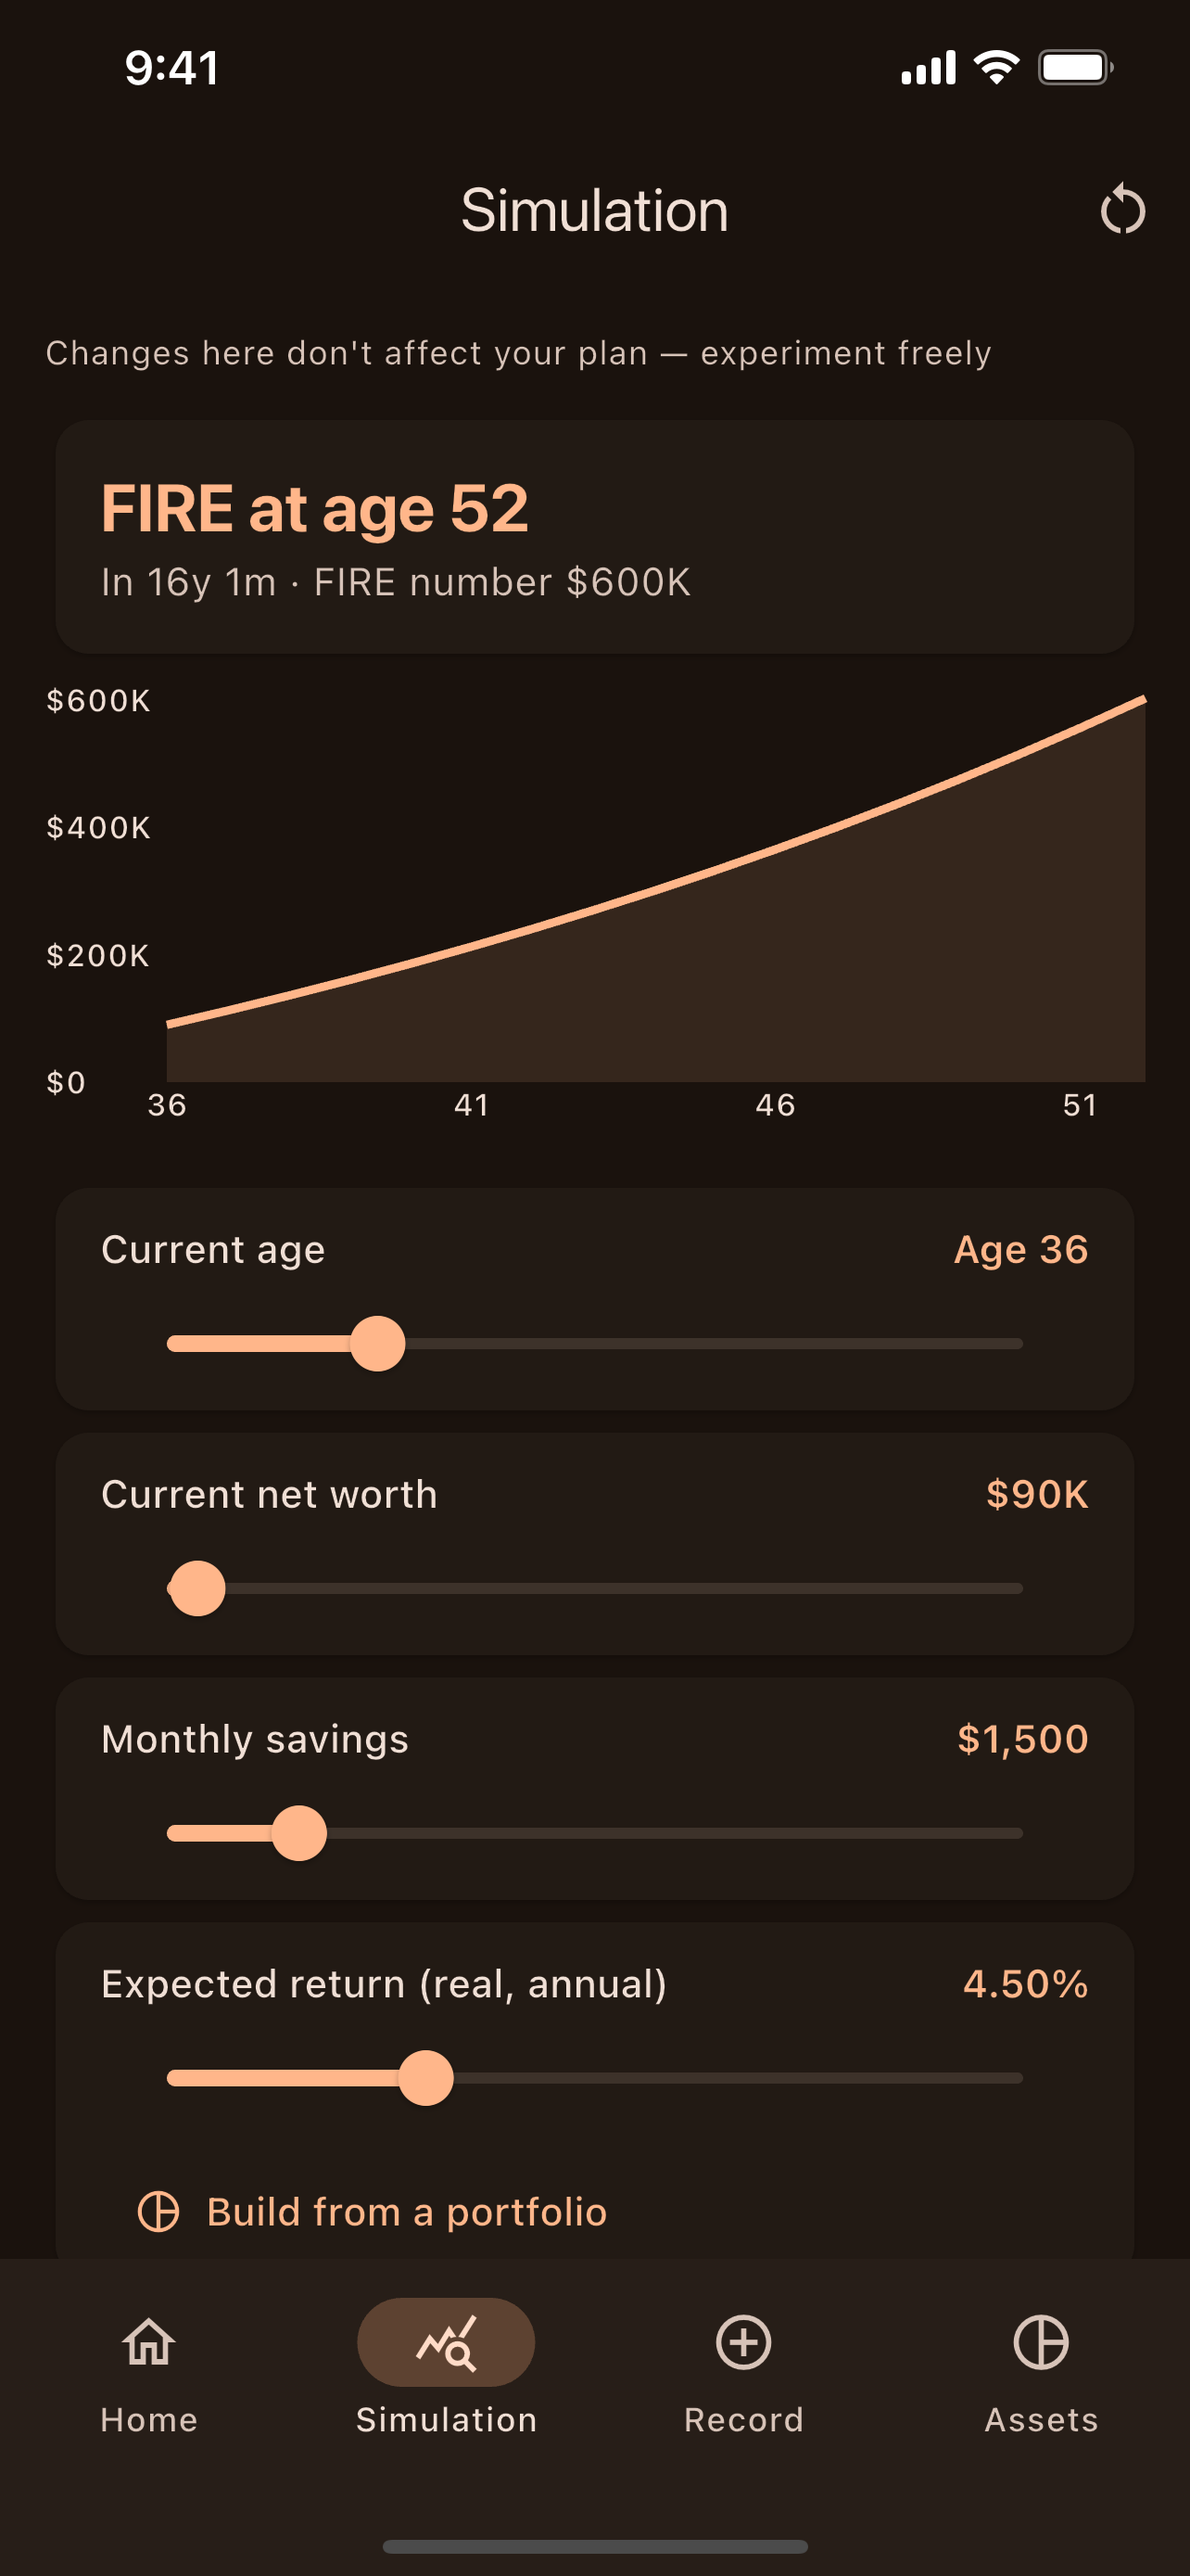
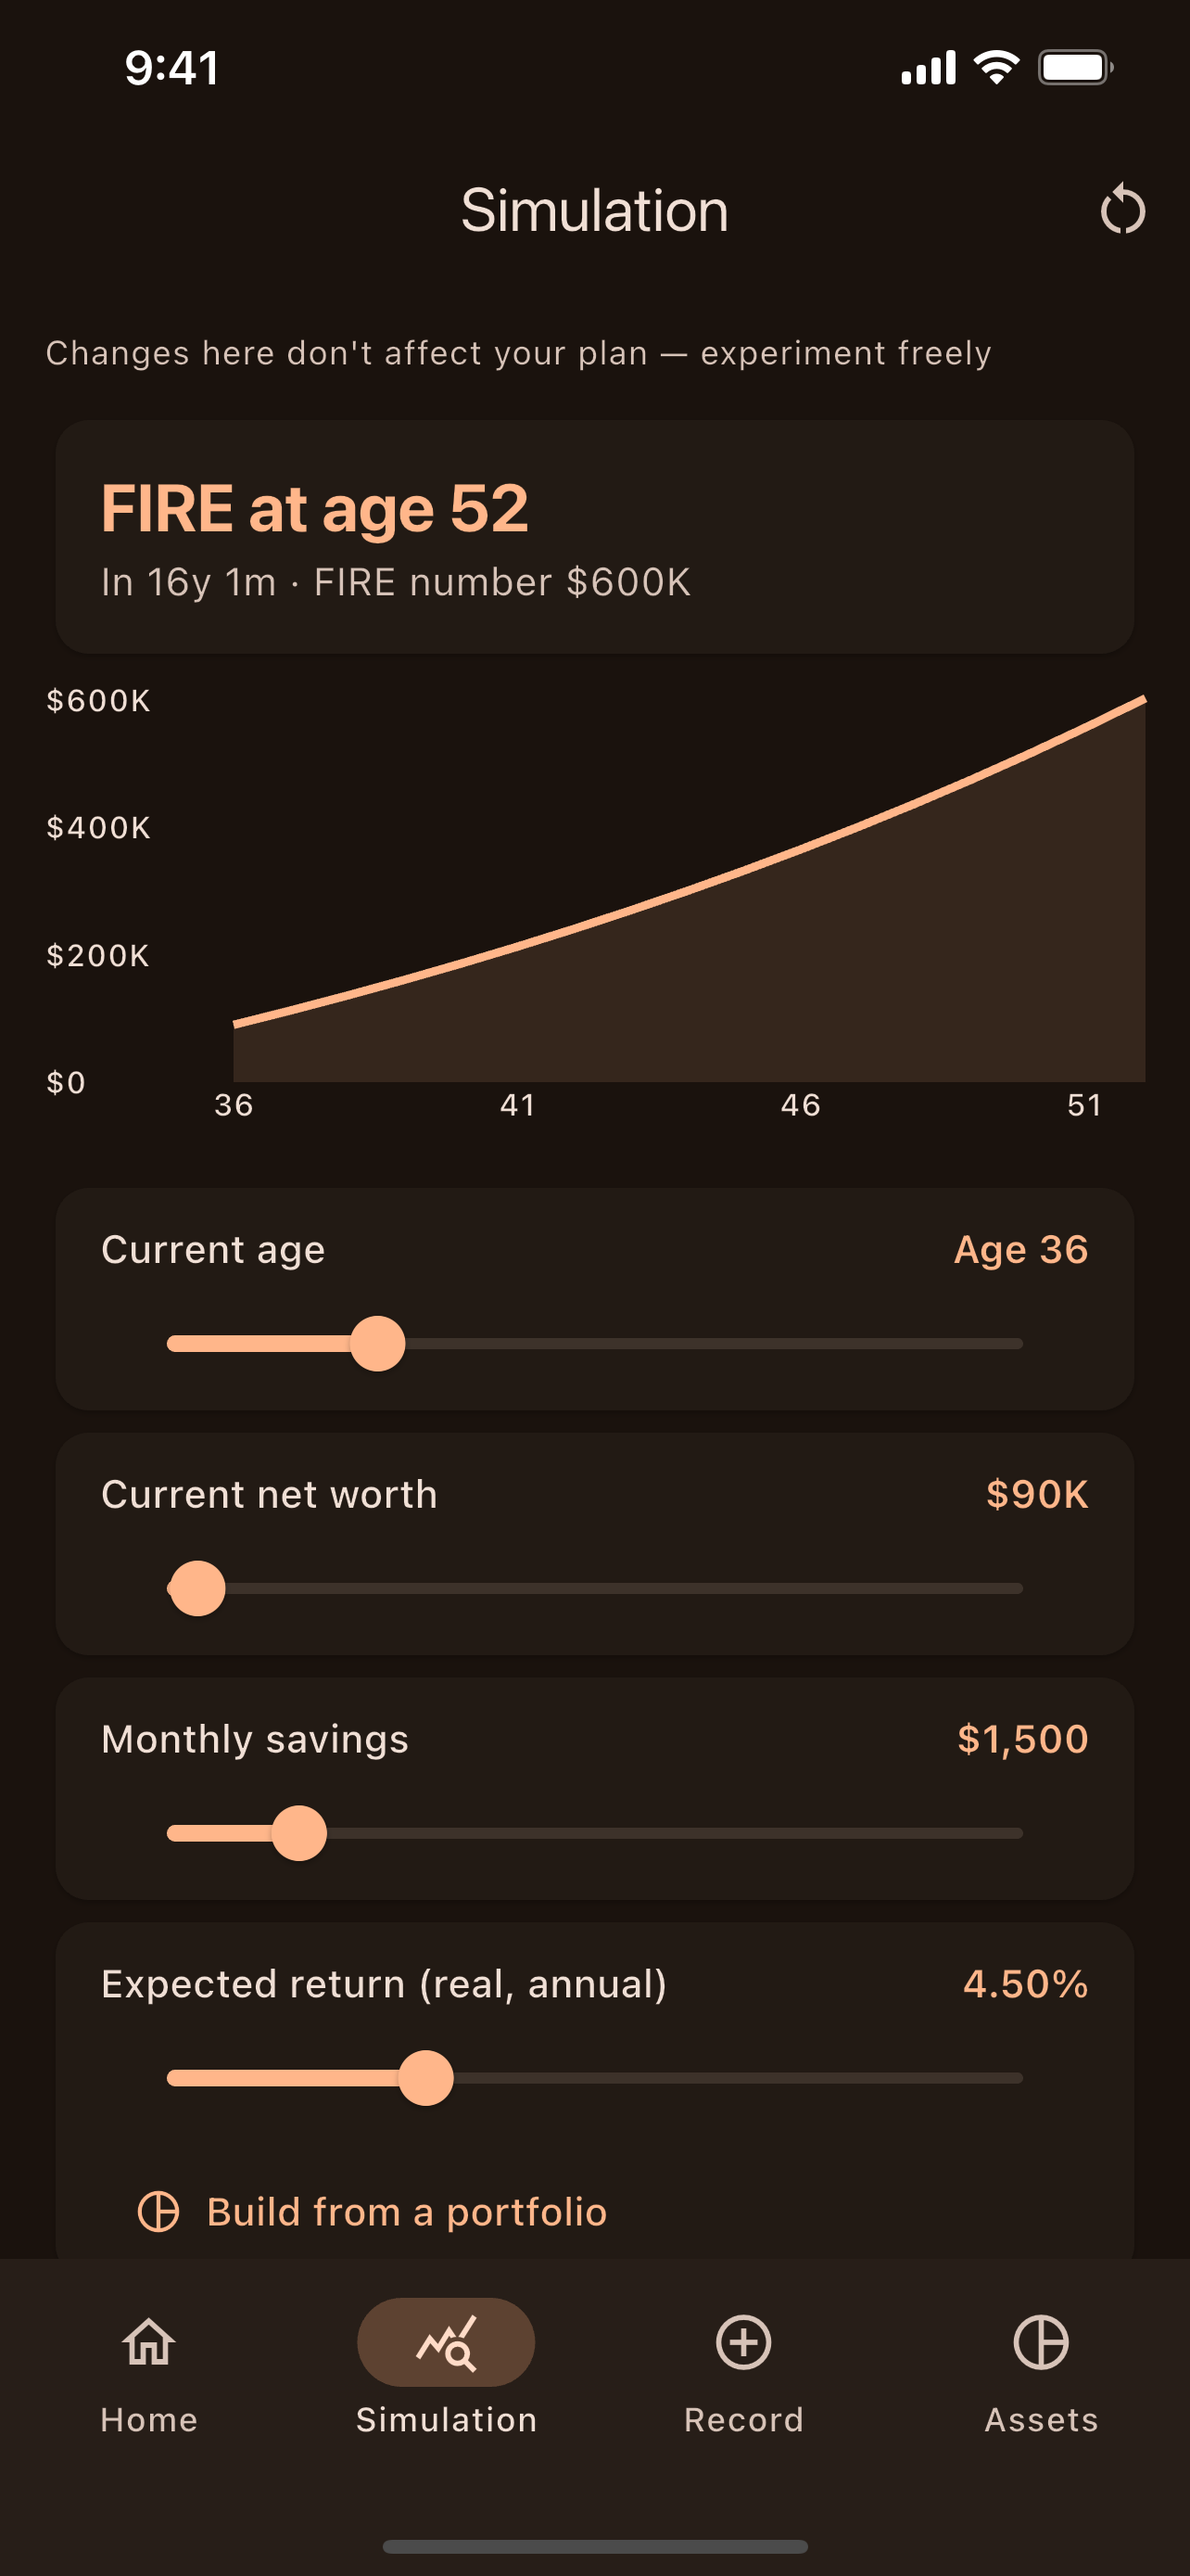
feat: 차트 축 라벨 폭·단위어 정리 + 스크린샷 업로드 도구, v1.0.0 배포
차트 축
- CJK는 축 눈금에서 통화 단위어를 뺀다 ("6억", "6,000万", "$600K").
  축 전체가 같은 단위라 눈금마다 반복할 필요가 없고, 일본어 "6,000万円"은 접혔다
- 축 라벨 칸 너비 44 → 68 공용 상수로. 일본어가 44로는 두 줄이 됐다

도구
- tool/upload_screenshots.py — 촬영본을 양대 스토어에 업로드.
  Play 이미지 엔드포인트는 edits/{id}/listings/{lang}/{type}다 (images/는 404)
- tool/seed_demo_db.py — 시뮬레이터 앱 DB에 시연 데이터 직접 삽입
- 촬영 테스트가 기본 자산 항목 이름도 현재 언어로 넣는다 (영어 화면에 한글이 남았다)

배포 (2026-10-02)
- Play 프로덕션 출시 완료 (버전코드 10, ko·en·ja 등록정보·출시노트·스크린샷)
- App Store 심사 제출 (1.0.0, 승인 즉시 자동 출시, 언어별 iPhone+iPad 스크린샷)
- 판매 지역 확장은 양대 스토어 모두 API 미지원 — 콘솔에서 사람이 한다

diff --git a/integration_test/screenshots_test.dart b/integration_test/screenshots_test.dart
@@ -5,6 +5,7 @@ import 'package:firedom/data/repositories/settings_store.dart';
 import 'package:firedom/data/repositories/snapshot_repository.dart';
 import 'package:firedom/engine/engine.dart';
 import 'package:firedom/features/simulation/monte_carlo_runner.dart';
+import 'package:firedom/l10n/l10n.dart';
 import 'package:flutter/material.dart';
 import 'package:flutter_test/flutter_test.dart';
 import 'package:integration_test/integration_test.dart';
@@ -55,7 +56,17 @@ Future<void> _seed(AppDatabase db) async {
 
   // 최근 6개월 기록 — 궤도 차트와 저축률 추이가 보이도록 조금씩 증가
   final repo = SnapshotRepository(db);
-  final accounts = await repo.ensureDefaultAccounts();
+  // 기본 항목 이름도 현재 언어로 — 실제 앱이 기록 화면에서 넘기는 것과 같은 l10n 문구다.
+  // 그냥 ensureDefaultAccounts()를 부르면 한국어 기본 시드가 들어가 영어 화면에 한글이 남는다.
+  final l10n = lookupAppLocalizations(Locale(_locale));
+  final accounts = await repo.ensureDefaultAccounts(names: [
+    l10n.snapDefaultDeposits,
+    l10n.snapDefaultStocks,
+    l10n.snapDefaultPension,
+    l10n.snapDefaultRealEstate,
+    l10n.snapDefaultLoans,
+    l10n.snapDefaultOther,
+  ]);
   for (var i = 6; i >= 0; i--) {
     final ym = ymAddMonths(nowYm(), -i);
     final grow = (6 - i);

diff --git a/lib/features/simulation/chart_axis.dart b/lib/features/simulation/chart_axis.dart
@@ -10,7 +10,12 @@ int chartAmountUnit(Currency currency) => switch (currency) {
       Currency.usd => 10000000,
     };
 
-/// y축 눈금 라벨 — 축 값 × 단위를 통화·언어에 맞춰 축약 ("1억원" / "$100K" / "1億円")
+/// y축 라벨 칸 너비. 일본어 "6,000万"처럼 긴 라벨이 두 줄로 접히지 않을 만큼 둔다
+/// (44로는 접혔다). 차트 폭은 그만큼 줄지만 라벨이 깨지는 것보다 낫다.
+const chartAxisLabelWidth = 68.0;
+
+/// y축 눈금 라벨 — 축 값 × 단위를 통화·언어에 맞춰 축약 ("1억" / "$100K" / "1億")
+/// CJK는 단위어를 빼 한 줄에 들어가게 한다 ([MoneyFormat.axis]).
 /// 가림 모드에서는 빈 문자열 (축 눈금 자체를 숨긴다)
 String chartAmountLabel(MoneyFormat money, double axisValue, int unit) =>
-    money.masked ? '' : money.compact((axisValue * unit).round());
+    money.masked ? '' : money.axis((axisValue * unit).round());

diff --git a/test/core/currency_test.dart b/test/core/currency_test.dart
@@ -107,4 +107,21 @@ void main() {
       expect(formatYm(202612, languageCode: 'ja'), '2026年12月');
     });
   });
+
+  group('MoneyFormat.axis — 차트 축 라벨', () {
+    test('CJK는 단위어를 뺀다 (좁은 축에서 두 줄로 접히지 않게)', () {
+      expect(const MoneyFormat(Currency.krw, 'ko').axis(600000000), '6억');
+      expect(const MoneyFormat(Currency.jpy, 'ja').axis(60000000), '6,000万');
+      expect(const MoneyFormat(Currency.krw, 'ko').axis(0), '0');
+    });
+
+    test('영어는 기호가 접두라 compact 그대로', () {
+      expect(const MoneyFormat(Currency.usd, 'en').axis(60000000), r'$600K');
+    });
+
+    test('가림 모드', () {
+      expect(const MoneyFormat(Currency.krw, 'ko', masked: true).axis(600000000),
+          '●●●');
+    });
+  });
 }

diff --git a/lib/core/money_format.dart b/lib/core/money_format.dart
@@ -139,6 +139,17 @@ class MoneyFormat {
     // "$1.0M" → "$1M"
     return '$sign${text.replaceAll(RegExp(r'\.0(?=[KMBT]$)'), '')}';
   }
+
+  /// 차트 축 눈금용 축약 — CJK는 통화 단위어를 뺀다 ("6억", "6,000万", r"$600K").
+  ///
+  /// 축은 폭이 좁아 "6,000万円"처럼 길어지면 라벨이 두 줄로 접힌다. 단위는 축 전체에서
+  /// 같으니 눈금마다 반복할 필요가 없다. 영어는 기호가 접두라 그대로 둔다.
+  String axis(int minor) {
+    if (masked) return maskedText;
+    final text = compact(minor);
+    if (!_cjk || !text.endsWith(unitWord)) return text;
+    return text.substring(0, text.length - unitWord.length);
+  }
 }
 
 /// 숫자 입력에 천 단위 콤마를 실시간 적용 (PRD S1)

diff --git a/lib/features/onboarding/onboarding_result_screen.dart b/lib/features/onboarding/onboarding_result_screen.dart
@@ -11,6 +11,7 @@ import '../../l10n/l10n.dart';
 import '../common/money.dart';
 import '../home/home_screen.dart';
 import 'onboarding_draft.dart';
+import '../simulation/chart_axis.dart';
 
 /// S2. 온보딩 — 결과 (PRD) ★ aha moment
 ///
@@ -348,7 +349,7 @@ class _TrajectoryChart extends ConsumerWidget {
             leftTitles: AxisTitles(
               sideTitles: SideTitles(
                 showTitles: true,
-                reservedSize: 44,
+                reservedSize: chartAxisLabelWidth,
                 getTitlesWidget: (value, meta) {
                   // 끝점 라벨은 마지막 눈금과 겹치므로 생략 (fl_chart가 max에 별도로 그림)
                   if (value == meta.max) return const SizedBox.shrink();

diff --git a/lib/features/home/home_screen.dart b/lib/features/home/home_screen.dart
@@ -470,7 +470,7 @@ class _TrajectoryCard extends StatelessWidget {
               sideTitles: SideTitles(
                 // 가림 모드에서는 금액 축도 숨긴다
                 showTitles: !masked,
-                reservedSize: 44,
+                reservedSize: chartAxisLabelWidth,
                 getTitlesWidget: (value, meta) {
                   // 끝점 라벨은 마지막 눈금과 겹치므로 생략 (fl_chart가 max에 별도로 그림)
                   if (value == meta.max) return const SizedBox.shrink();

diff --git a/lib/features/simulation/simulation_screen.dart b/lib/features/simulation/simulation_screen.dart
@@ -689,7 +689,7 @@ class _SimChart extends ConsumerWidget {
             leftTitles: AxisTitles(
               sideTitles: SideTitles(
                 showTitles: true,
-                reservedSize: 44,
+                reservedSize: chartAxisLabelWidth,
                 getTitlesWidget: (value, meta) {
                   // 끝점 라벨은 마지막 눈금과 겹치므로 생략 (fl_chart가 max에 별도로 그림)
                   if (value == meta.max) return const SizedBox.shrink();

diff --git a/lib/features/simulation/scenario_compare_screen.dart b/lib/features/simulation/scenario_compare_screen.dart
@@ -323,7 +323,7 @@ class _CompareChart extends StatelessWidget {
           leftTitles: AxisTitles(
             sideTitles: SideTitles(
               showTitles: true,
-              reservedSize: 44,
+              reservedSize: chartAxisLabelWidth,
               getTitlesWidget: (value, meta) {
                 // 끝점 라벨은 마지막 눈금과 겹치므로 생략 (fl_chart가 max에 별도로 그림)
                 if (value == meta.max) return const SizedBox.shrink();

diff --git a/tool/upload_screenshots.py b/tool/upload_screenshots.py
@@ -116,11 +116,12 @@ def push_play(prefix, locale, paths):
     lang = PLAY_LOCALE[locale]
     edit = P.call('POST', 'edits')['id']
     try:
-        P.call('DELETE', f'edits/{edit}/images/{lang}/{image_type}')
+        # 이미지 엔드포인트는 edits/{id}/listings/{lang}/{type} 아래다 (images/ 아님 — 404)
+        P.call('DELETE', f'edits/{edit}/listings/{lang}/{image_type}')
         for path in paths:
             blob = open(path, 'rb').read()
             url = ('https://androidpublisher.googleapis.com/upload/androidpublisher/v3/'
-                   f'applications/{P.PKG}/edits/{edit}/images/{lang}/{image_type}'
+                   f'applications/{P.PKG}/edits/{edit}/listings/{lang}/{image_type}'
                    '?uploadType=media')
             _raw('POST', url, {'Authorization': f'Bearer {P.token()}',
                                'Content-Type': 'image/png',

diff --git a/CLAUDE.md b/CLAUDE.md
@@ -145,11 +145,12 @@ App Store 지침 **3.1.2(c)**: 구독을 파는 앱은 이용약관(EULA)과 개
 
 ## 릴리스 상태 (2026-09-23 기준)
 
-- **v1.0 양대 스토어 게시 완료.** App Store는 빌드 8(0.1.0+8, 3.1.2(c) 대응 빌드),
-  Google Play 프로덕션은 버전 6(0.1.0). 빌드 9(0.1.0+9)는 Play **내부 테스트 트랙**에만
-  올라가 있다(설정 화면 고객 ID 타일). 현재 `pubspec.yaml`은 **`1.0.0+10`** — 다국어·다통화
-  빌드. **2026-10-01 TestFlight 내부 테스트(알파테스터 그룹, 자동 배포)에 업로드**했고 심사
-  제출은 아직이다. 설정 화면 앱 버전은 `package_info_plus`로 읽는다
+- **v1.0.0 다국어·다통화 배포 (2026-10-02).** `pubspec.yaml`은 `1.0.0+10`.
+  - **Google Play: 프로덕션 출시 완료** (버전코드 10, 등록정보·출시노트 ko·en·ja)
+  - **App Store: 심사 대기**(WAITING_FOR_REVIEW, 2026-10-02 제출). 승인 즉시 자동 출시 설정.
+    스크린샷은 언어별 iPhone 6.5" 5장 + iPad 12.9" 5장
+  - 그 이전: App Store 빌드 8(0.1.0+8), Play 버전 6(0.1.0), 빌드 9는 Play 내부 테스트에만
+  - 설정 화면 앱 버전은 `package_info_plus`로 읽는다
 - **iOS 업로드는 CLI로 한다.** `xcrun altool --upload-app --type ios -f build/ios/ipa/firedom.ipa
   --apiKey 8FZTAA3T77 --apiIssuer <Issuer ID>` (키는 `~/.appstoreconnect/private_keys/`, Issuer ID는
   메모리 `store-submission-setup`). 내부 그룹 '알파테스터'는 모든 빌드 자동 접근이라 처리 완료 즉시 뜬다
@@ -163,19 +164,22 @@ App Store 지침 **3.1.2(c)**: 구독을 파는 앱은 이용약관(EULA)과 개
   프로모셔널 엔타이틀먼트(`premium`, Lifetime)를 쓴다. 계정이 없는 앱이라 고객 ID가
   설치 단위 익명 ID이며, 설정 → 구독 → '고객 ID' 타일에서 복사할 수 있다(빌드 9~).
   앱을 삭제·재설치하면 ID가 바뀌므로 업데이트 설치로 유지해야 한다
-- **배포 지역: 현재 스토어 게시본(빌드 8·9)은 대한민국만.** 2026-10-01에 글로벌 전환을
-  결정해 코드는 ko·en·ja + KRW/USD/JPY를 지원하지만, **아직 다국어 빌드가 스토어에 올라가지
-  않았다.** 국가 확장은 반드시 다국어 빌드 심사 통과 뒤 `docs/guide/TestFlight_배포_가이드.md`
-  §14 순서로. 해외 앱 이름은 `Firedom`, 한국은 `파이어덤` 유지. 영어·일본어 등록정보는
-  `docs/스토어_등록_문구.md` §5
+- **배포 지역: 국가 확장은 아직 사용자 TODO.** 코드·등록정보·스크린샷·처리방침은 ko·en·ja로
+  준비됐고 빌드도 올라갔지만, **판매 지역 설정은 양대 스토어 모두 API로 다루지 못해**
+  콘솔에서 직접 넓혀야 한다(미국·캐나다·영국·호주·뉴질랜드·싱가포르·일본).
+  해외 앱 이름은 `Firedom`, 한국은 `파이어덤` 유지. 절차는 `docs/guide/TestFlight_배포_가이드.md` §14
 - 구독 상품 ID는 양대 스토어 공통: `firedom_39000_1y`(₩39,000/년), `firedom_4900_1m`(₩4,900/월),
   각각 7일 무료 체험. **통화는 RevenueCat이 아니라 스토어가 정한다** — 앱은 RevenueCat이 주는
   현지화 가격 문자열(`storeProduct.priceString`)을 그대로 출력하므로 앱에 금액을 박지 않는다
 - **양대 스토어 가격은 2026-10-01에 맞췄다** (`tool/align_play_prices.py`, 같은 통화인 지역만 —
   통화가 다른 30곳은 환율을 임의로 만들지 않고 건너뛴다). 다시 돌릴 일이 있으면 **실결제에 영향을
   주므로 사람이 직접 실행한다**. 실측 표와 함정은 `docs/스토어_등록_문구.md` §5-4
-- Play 서비스 계정에는 가격 수정용 **'스토어 등록정보 관리'** 권한이 부여돼 있다.
-  단 `GET inappproducts`는 권한이 충분해도 403이라 권한 판단 기준으로 쓰면 안 된다
+- Play 서비스 계정 권한: **'스토어 등록정보 관리'**(가격·등록정보·스크린샷)와
+  **프로덕션 출시**가 부여돼 있다(2026-10-02). 트랙 PATCH는 통과하는데 `edits:validate`에서
+  403이면 출시 권한이 없는 것이다. `GET inappproducts`는 권한이 충분해도 403이라
+  권한 판단 기준으로 쓰면 안 된다
+- 스토어 자동화 도구: `tool/store_listings.py`(등록정보), `tool/upload_screenshots.py`(스크린샷),
+  `tool/screenshots.sh`+`tool/seed_demo_db.py`(촬영), `tool/align_play_prices.py`(가격)
 - 스토어 API는 `tool/asc_api.py`(App Store Connect) / `tool/play_api.py`(Google Play) —
   외부 의존성 없이 서비스 계정·ASC 키로 토큰을 만든다. 자격증명은 `secret/`·`~/.appstoreconnect/`
 - 빌드·제출 절차는 `docs/guide/TestFlight_배포_가이드.md`, 문구는 `docs/스토어_등록_문구.md`
